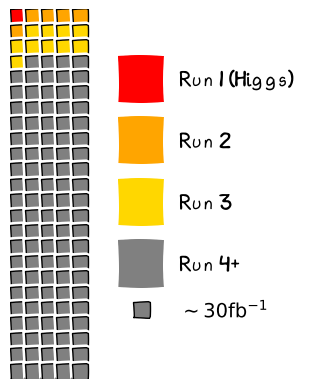
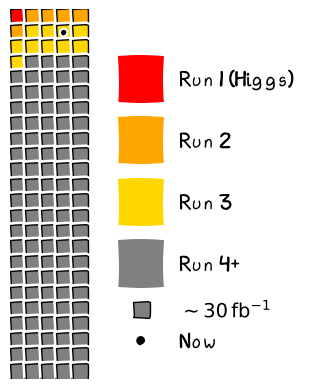
Update lhc lumi figure

diff --git a/figures/code/lhc_lumi.py b/figures/code/lhc_lumi.py
@@ -105,7 +105,12 @@ ax.add_patch(
     )
 )
 # ax.text(11, 4, r"~ $30 \mathrm{fb}^{-1}$", fontsize=14, fontweight="bold")
-ax.text(11, 4, r"$\sim 30 \mathrm{fb}^{-1}$", fontsize=14, fontweight="bold")
+ax.text(11, 4, r"$\sim 30\,\mathrm{fb}^{-1}$", fontsize=14, fontweight="bold")
+
+ax.add_patch(plt.Circle((3.5, 22.5), 0.1, color="black", fill=True))
+
+ax.add_patch(plt.Circle((8.5, 2.5), 0.2, color="black", fill=True))
+ax.text(11, 2, r"Now", fontsize=14, fontweight="bold")
 
 # Set the limits of the plot
 # ax.set_xlim(0, n_cols)

diff --git a/talk.md b/talk.md
@@ -92,7 +92,7 @@ January 30th, 2024
 
 .kol-3-5[
 .large[
-* LHC beam crossing at experiments every .bold[25 ns] (.bold[40 MHz] collisions)
+* LHC beam crossing at experiments every .bold[25 ns] <br>(.bold[40 MHz] collisions)
    - Would translate to ~ petabyte per second
    - Use real time data processing ("trigger") system to only keep potentially interesting collisions
    - Use further offline selections to reduce data stream even more
